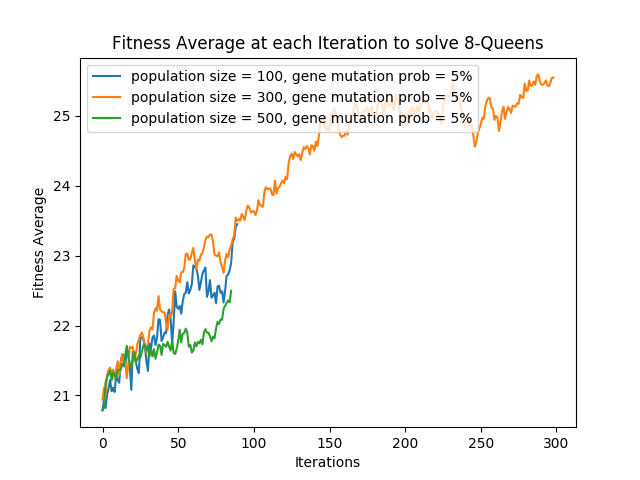
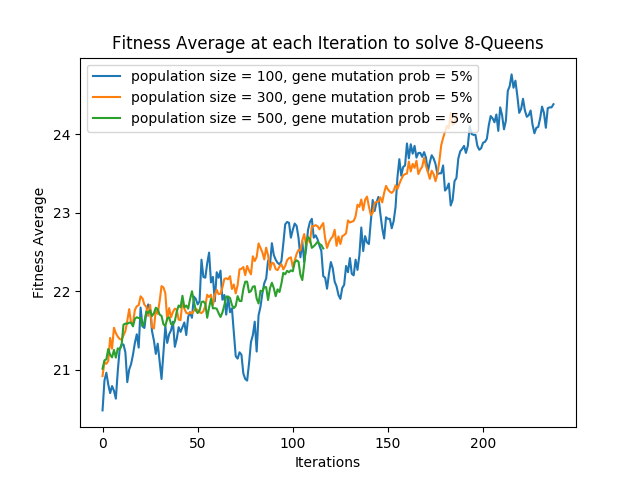
Updated data graph

diff --git a/queens.py b/queens.py
@@ -13,15 +13,19 @@ class board_info():
     def setFitness(self, val):
         self.fitness = val
 
+    #returns a randomized chess board with 8 queens, one in each column
     def randomBoard(self):
         initBoard = np.random.randint(8, size=8) 
         initBoard
         return initBoard
-
+    
+    #get the chessboard current fitness
     def getFitness(self):
         clashes = 0
         diag_clashes = 0
+        #horizontal clashes
         row_clashes = abs(len(self.board)) - len(np.unique(self.board))
+        #diagonal clashes
         for i in range(len(self.board)):
             for j in range(i, len(self.board)):
                 if i != j:
@@ -33,6 +37,7 @@ class board_info():
         clashes += row_clashes + diag_clashes
         return 28-clashes
     
+    #random mutation
     def mutate(self, muta):
         if random.randint(0, 99) <= muta:
             index = random.randint(0,7)
@@ -47,7 +52,7 @@ class queen_pop():
         self.fitness_sum = 0
         self.fitness_avg = 0
 
-    
+    #create a population of len, and set each board's fitness
     def populate(self, len):
         for i in range(len):
             temp_board = board_info()
@@ -55,9 +60,11 @@ class queen_pop():
             temp_board.setFitness(temp_board.getFitness())
             self.population.append(temp_board)
 
+    #get the fitness sum for the whole population in current generation
     def getFitnessSum(self):
         return sum(chromosome.fitness for chromosome in self.population)
-
+    
+    #find the average fitness for a population in current generation
     def getFitnessAvg(self):
         return self.fitness_sum/len(self.population)
 
@@ -68,31 +75,37 @@ class queen_pop():
 
     
 
-
+    #find the probability distribution based on fitness for individual boards of a population
     def dist_prob(self):
         temp_dist = []
         for chromosome in self.population:
             temp_dist.append(chromosome.fitness/self.fitness_sum)
         return temp_dist
 
-
+    #cross over two genes at random location depending on distribution probability. 
     def crossOver(self, len):
+        #get distribution probablity for each board
         fitness_dist = self.dist_prob()
+        #create a mapping of the length of population
         pop_map = np.arange(len)
+        #find two parent mappings depending on distribution
         cross_parents = np.random.choice(pop_map, 2, p=fitness_dist)
+        #create two new childs to hold crossover
         child_one = board_info()
         child_two = board_info()
-
+        
+        #copy parent board into child
         child_one.setBoard(self.population[cross_parents[0]].board.copy())
         child_two.setBoard(self.population[cross_parents[1]].board.copy())
 
+        #randomly select a place to splice, and swap the values
         c = np.random.randint(8)
         child_one.board[c:], child_two.board[c:] = child_two.board[c:], child_one.board[c:].copy()
         child_one.setFitness(child_one.getFitness())
         child_two.setFitness(child_two.getFitness())
         return (child_one, child_two)
 
-
+    #check if goal state is reached -- no queens attacking one another and display it
     def finish(self):
         goal = False
         #print('Average Fitness: %.2f' %(self.fitness_avg))
@@ -103,6 +116,7 @@ class queen_pop():
                 goal = True
         return goal
     
+    #genetic algorithm wrapper
     def genetic_algo(self, popSize, mutaProp):
         plot_data = []
         iteration = 3000 
@@ -133,28 +147,28 @@ class queen_pop():
 
 def main():
 
-    #queens1 = queen_pop()
-    #queens2 = queen_pop()
-    #queens3 = queen_pop()
-    queens4 = queen_pop()
-    queens5 = queen_pop()
-    queens6 = queen_pop()
+    queens1 = queen_pop()
+    queens2 = queen_pop()
+    queens3 = queen_pop()
+    #queens4 = queen_pop()
+    #queens5 = queen_pop()
+    #queens6 = queen_pop()
 
     popSize1 = 100
     #popSize2 = 300
     #popSize3 = 500
-    #mutaprop1 = 5
-    mutaprop2 = 7
-    mutaprop3 = 10
-    mutaprop4 = 3
+    mutaprop1 = 5
+    #mutaprop2 = 7
+    #mutaprop3 = 10
+    #mutaprop4 = 3
 
-    #plot_data1 = queens1.genetic_algo(popSize1,mutaprop1)
+    plot_data1 = queens1.genetic_algo(popSize1,mutaprop1)
     #plot_data2 = queens2.genetic_algo(popSize2, mutaprop1)
     #plot_data3 = queens3.genetic_algo(popSize3, mutaprop1)
 
-    plot_data4 = queens4.genetic_algo(popSize1, mutaprop4)
-    plot_data5 = queens5.genetic_algo(popSize1, mutaprop2)
-    plot_data6 = queens6.genetic_algo(popSize1, mutaprop3)
+    #plot_data4 = queens4.genetic_algo(popSize1, mutaprop4)
+    #plot_data5 = queens5.genetic_algo(popSize1, mutaprop2)
+    #plot_data6 = queens6.genetic_algo(popSize1, mutaprop3)
 
 
     #plt.title("Fitness Average at each Iteration to solve 8-Queens")
